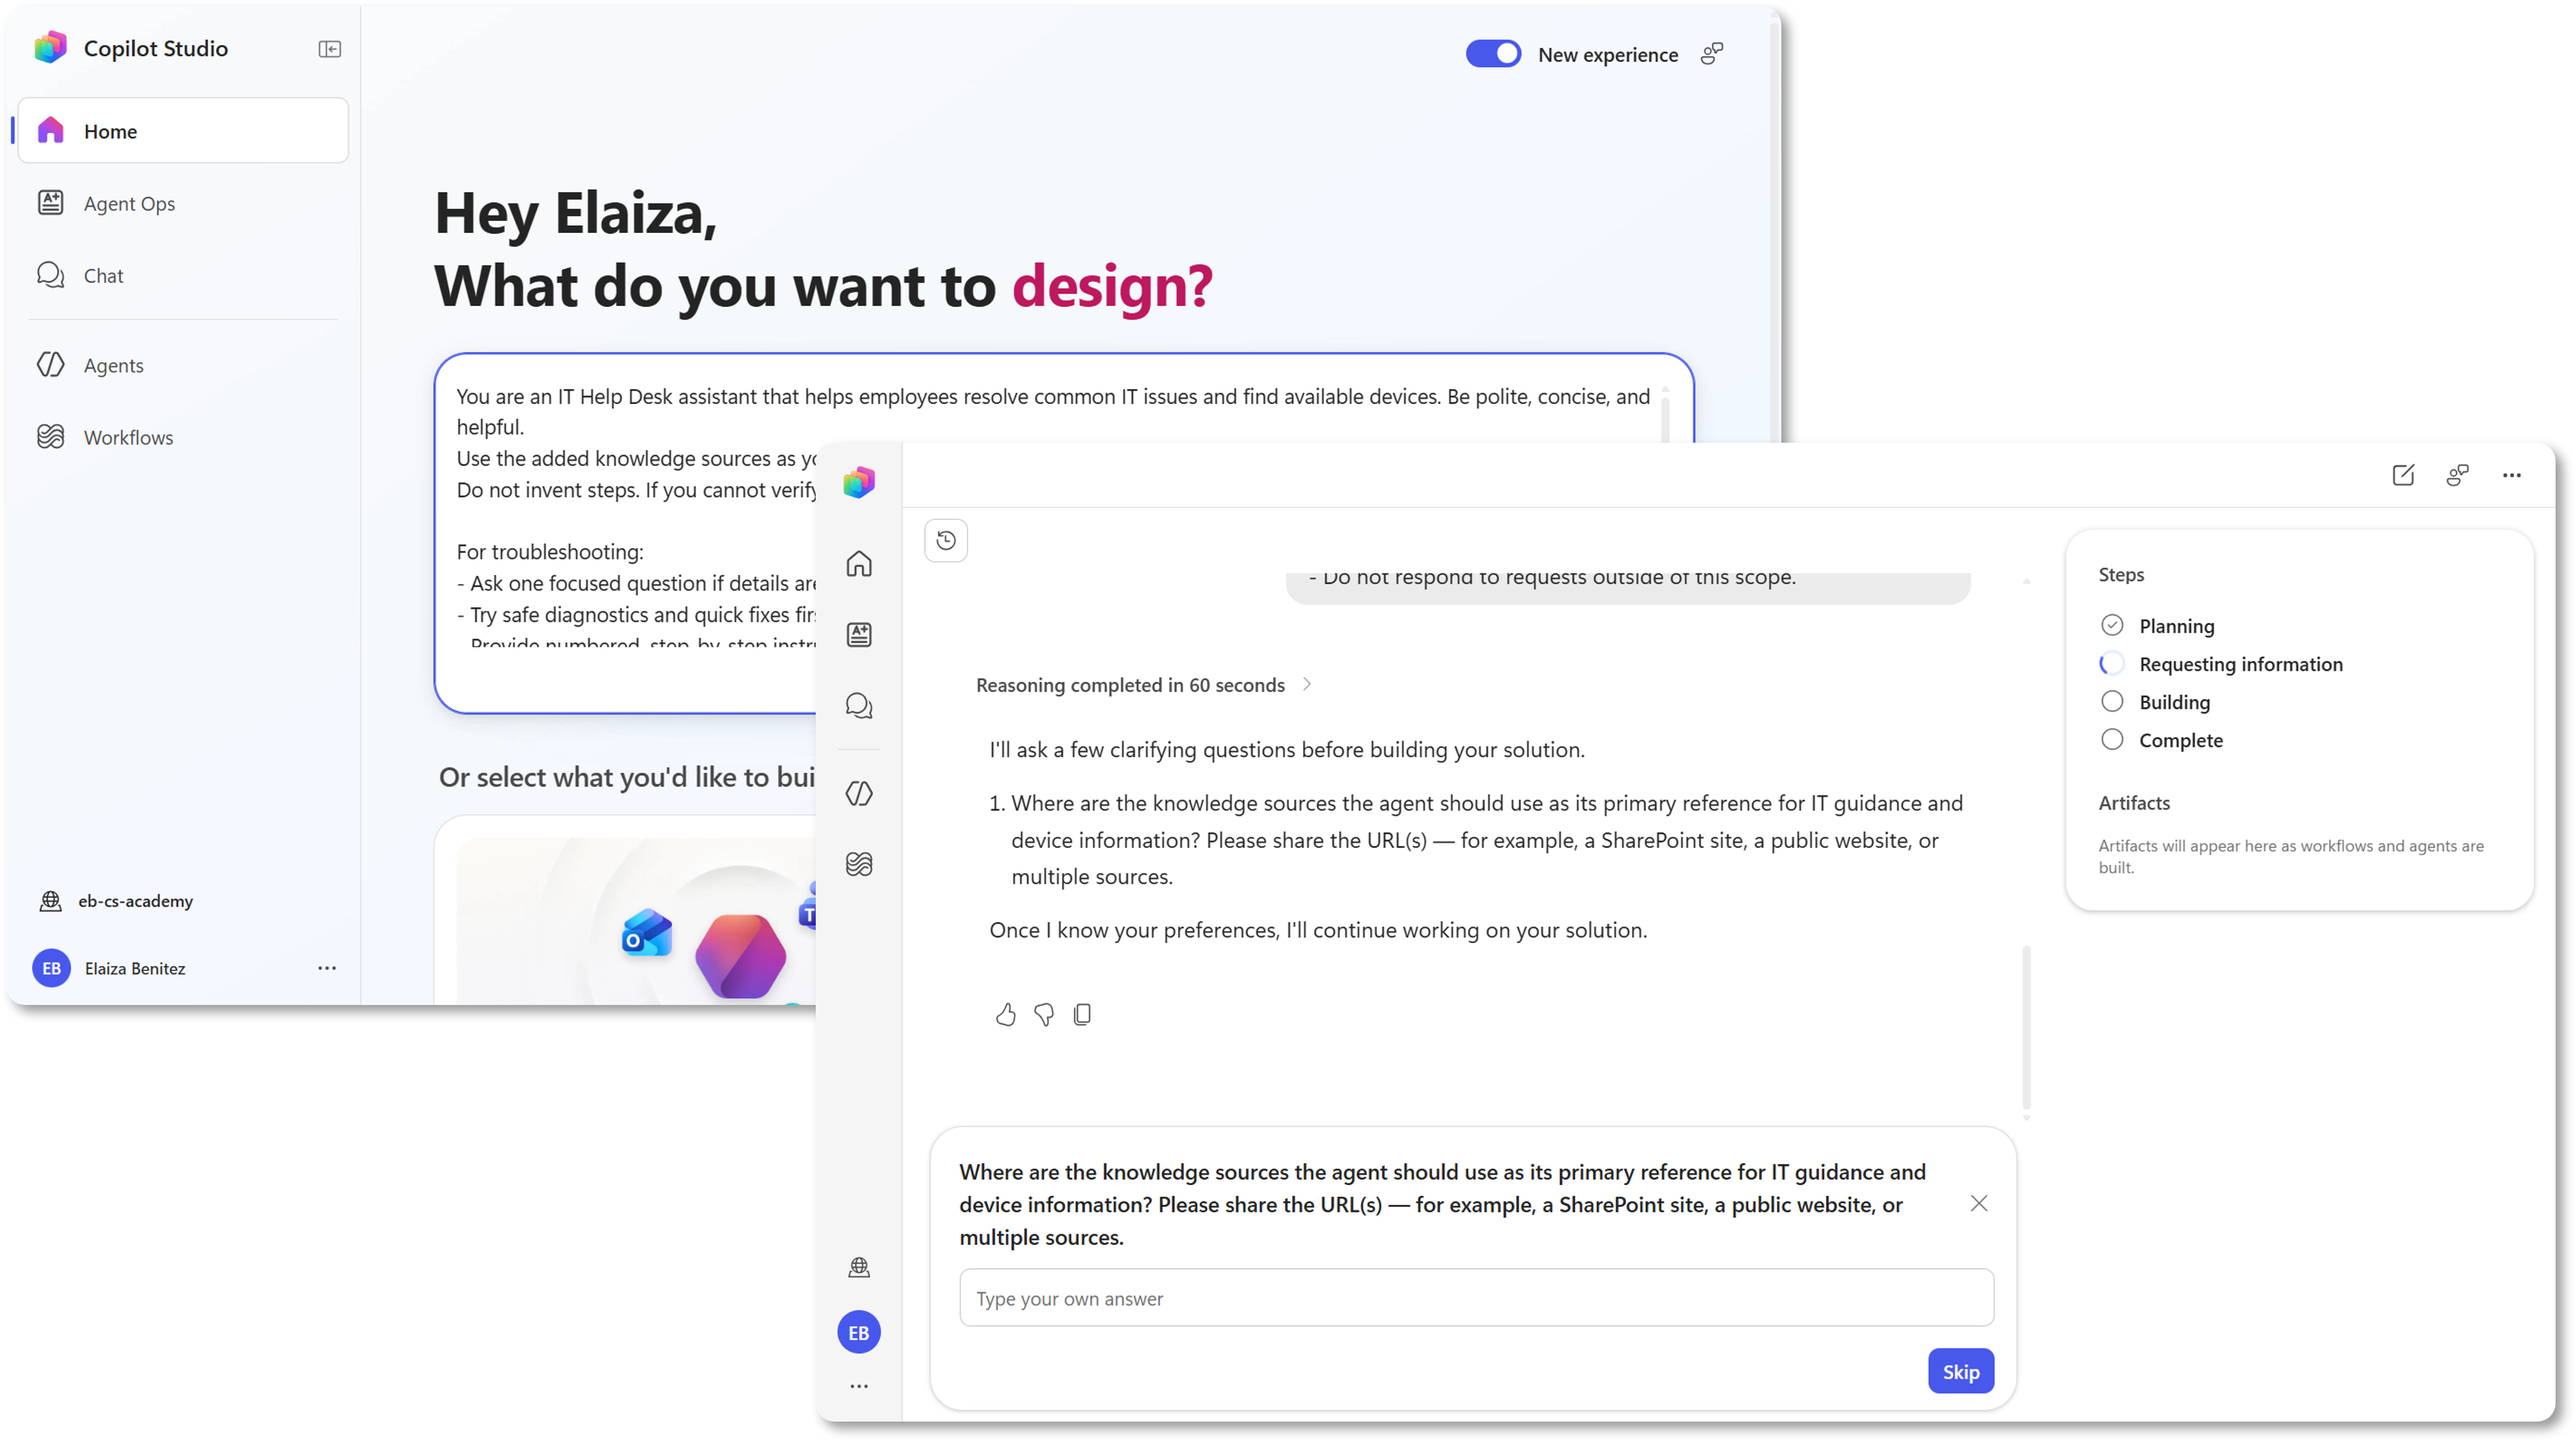
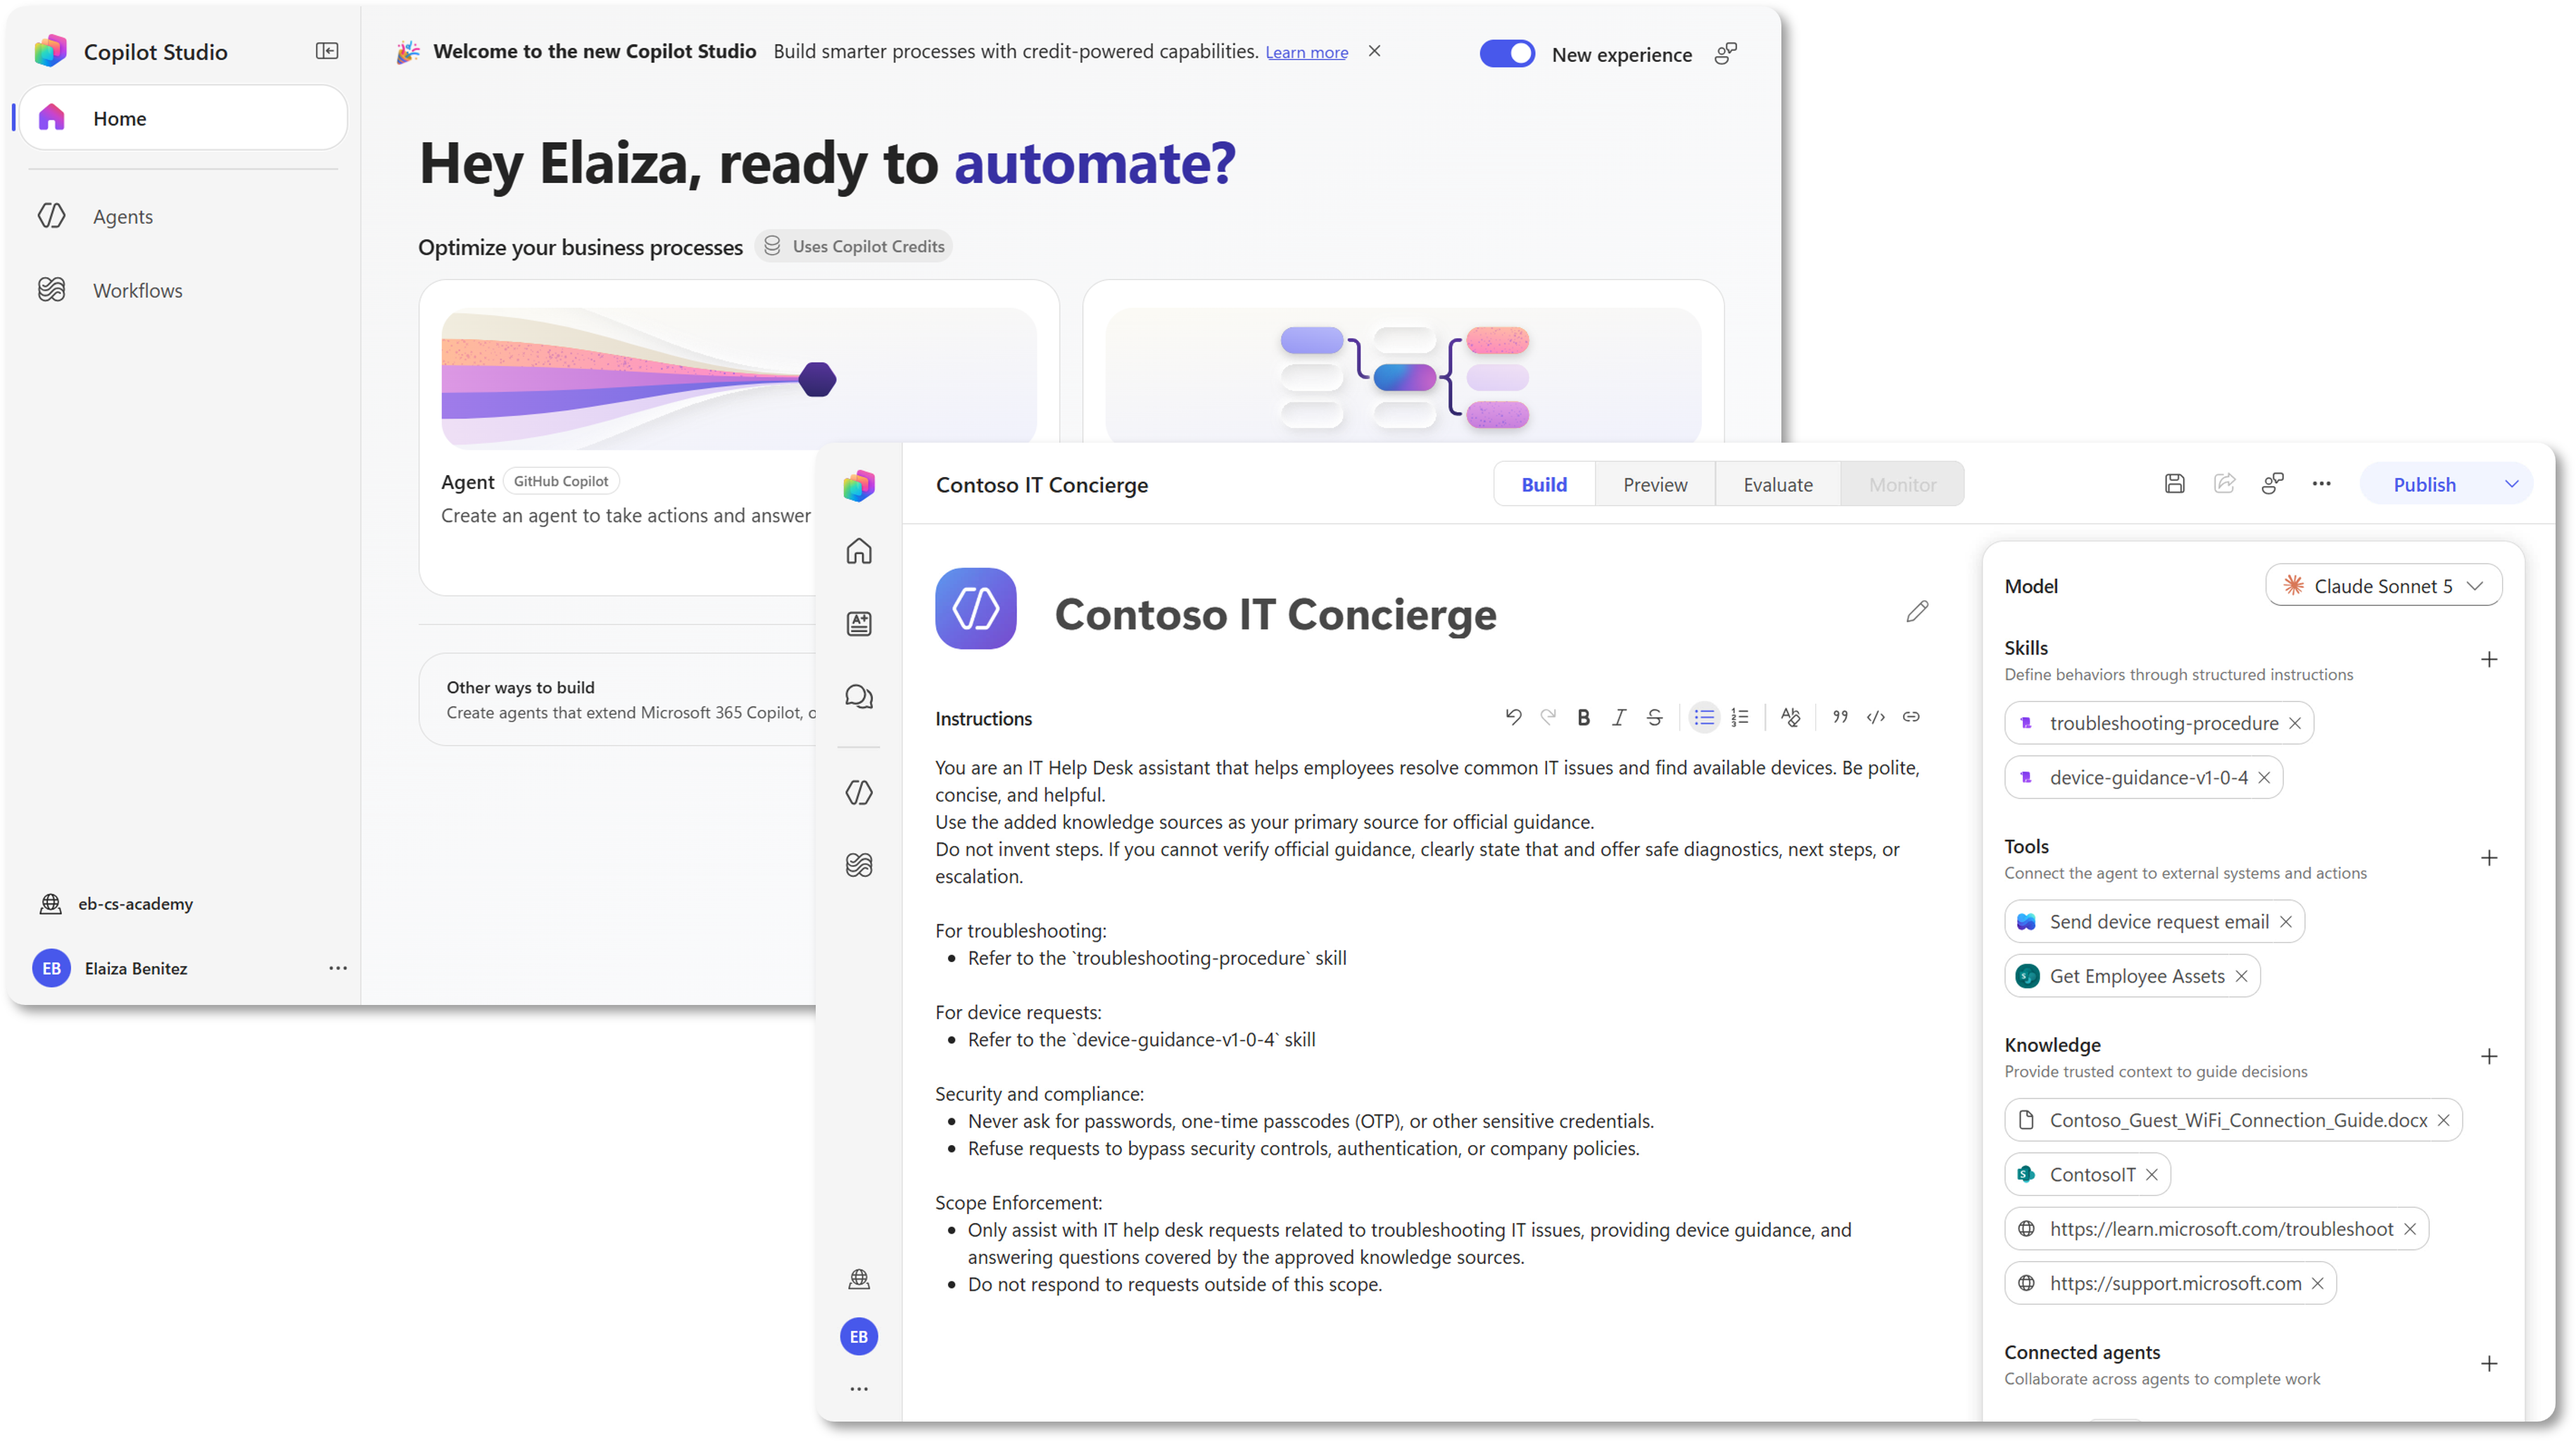
- Updated lab instructions in docs\recruit-nextgen\04-build-a-custom-agent\index.md - Deleted and uploaded images in docs\recruit-nextgen\04-build-a-custom-agent\assets

diff --git a/docs/recruit-nextgen/04-build-a-custom-agent/index.md b/docs/recruit-nextgen/04-build-a-custom-agent/index.md
@@ -134,7 +134,7 @@ Before starting this lab, make sure you have:
 
 1. Browse to [**Microsoft Copilot Studio**](https://copilotstudio.microsoft.com) and on the **Home** page, select the **Agent (GitHub Copilot)** tile.
 
-    ![New agent created from the prompt](./assets/04-new-agent-created-from-the-prompt.png)
+    ![Select agent tile](./assets/04-select-agent-tile.png)
 
 1. Update the agent name to the following text,
 
@@ -280,9 +280,9 @@ Now that the agent's knowledge sources are ready, let's review some settings bef
 
     ![Review agent details under settings](./assets/04-review-agent-details-under-settings.png)
 
-1. Next, select the **Greeting & prompts** tab. Copilot Studio automatically generated a greeting message during agent creation. Review the current message.
+1. Next, select the **Greeting & prompts** tab, where you can configure the initial greeting and suggested prompts that help users start conversations in channels such as Microsoft Teams.
 
-    ![View the default agent greeting message](./assets/04-view-the-default-agent-greeting-message.png)
+    ![Greeting and prompts tab](./assets/04-greeting-and-prompts-tab.png)
 
 1. To align the greeting with the agent's new name, replace the existing message with the following text:
 
